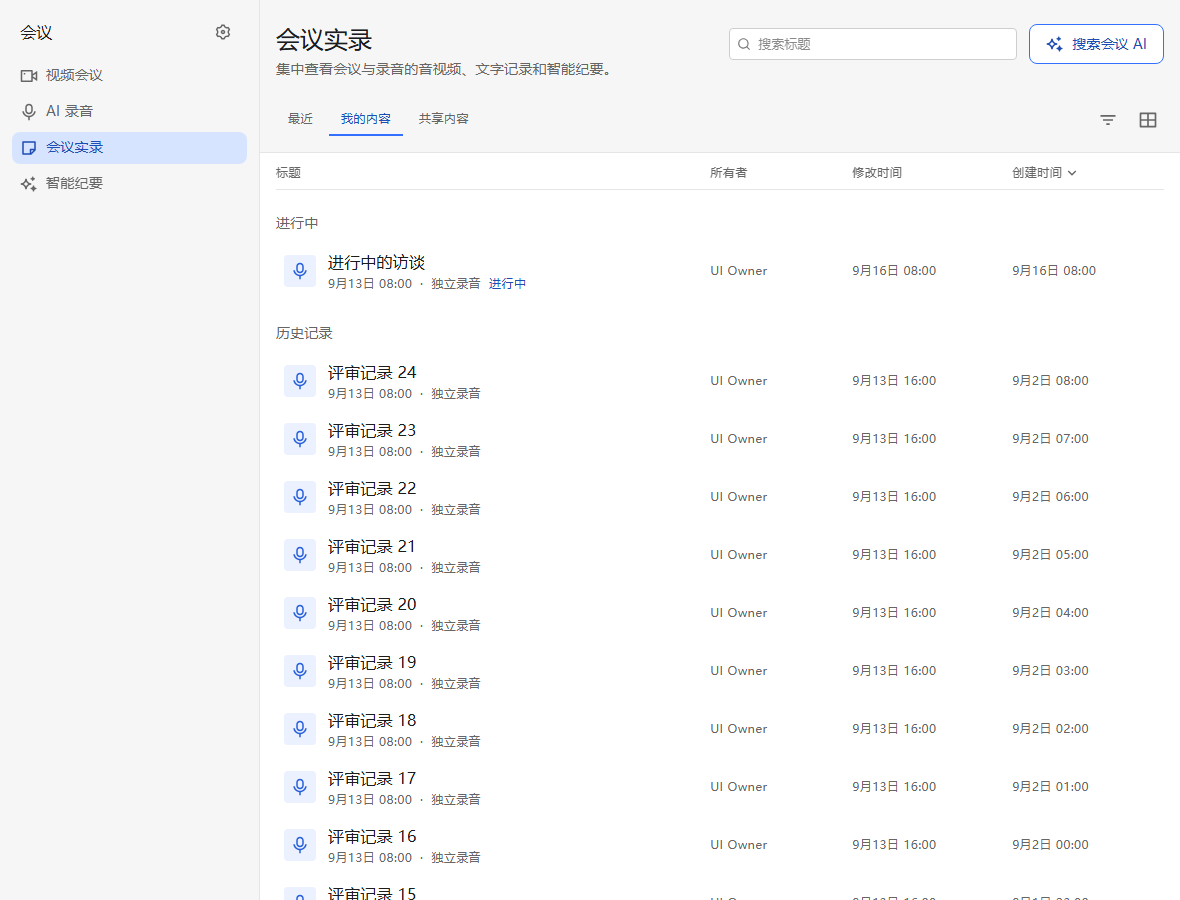
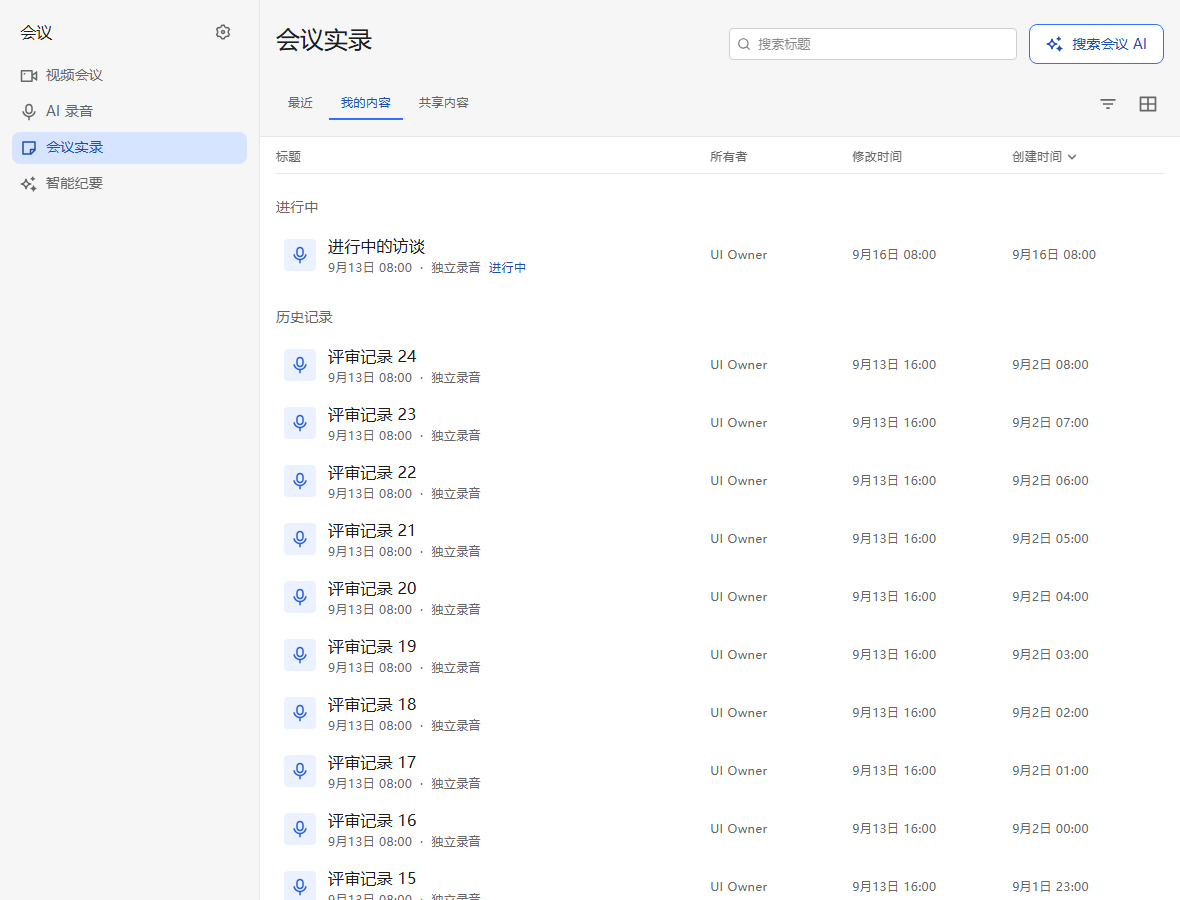
refactor(meetings): drop the subtitle from the four first-level pages
视频会议 / AI 录音 / 会议实录 / 智能纪要的页头原先都是「标题 + 一行说明」,
按要求删掉说明行,页头只留标题:

- 三个页面文件删掉 <p className={pageLead}> 与随之不再使用的 pageLead
  import(pageLead 本身保留:录音详情 / 录制页 / 记录工作区三个次级页还在用);
- 文案键 library.videoHint / recordHint / notesHint / minutesHint 只从 zh / en
  删除(de / fr / nl 本来就没有这几个键,走 en 兜底);
- 页头动作行的对齐不变:pageHeaderRow 是 align-items: flex-start,标题
  (24px,行高 32)与右侧 32px 的按钮、搜索框本来就顶对齐。

走查在 assertUnifiedPageChrome 里加了一条:页头 header p 数量必须是 0 —— 四个
页面一处定义、四页同时受检,以后谁再加回说明行会直接红。

验证:vitest 160 文件 1033 条、lint / prettier / check:json / color /
foundation / tsc / build 全绿;check-meeting-pages-ui.mjs 通过;四页桌面 +
390px + 深色截图已更新。

diff --git a/src/frontend/src/features/home/routes/Home.tsx b/src/frontend/src/features/home/routes/Home.tsx
@@ -36,7 +36,6 @@ import {
   pageFixedTop,
   pageHeaderRow,
   pageHeaderText,
-  pageLead,
   pageShell,
   pageTitle,
   scrollRegion,
@@ -267,13 +266,11 @@ export const Home = () => {
                     <MeetingModuleNav current="/meeting" />
                   </div>
                   <header className={pageHeaderRow}>
+                    {/* 页头只有标题:四个一级页都不再带副标题(2026-09-17)。 */}
                     <div className={pageHeaderText}>
                       <h1 className={pageTitle}>
                         {t('library.video', { ns: 'meetings' })}
                       </h1>
-                      <p className={pageLead}>
-                        {t('library.videoHint', { ns: 'meetings' })}
-                      </p>
                     </div>
                     {/* 快速会议(实心主操作)+ 加入 / 预约(线框次操作),
                         三档都是 action 尺寸,和模块里其它页头动作同高同字号。

diff --git a/src/frontend/src/features/meetings/routes/RecordingOverview.tsx b/src/frontend/src/features/meetings/routes/RecordingOverview.tsx
@@ -18,7 +18,6 @@ import {
   pageFixedTop,
   pageHeaderRow,
   pageHeaderText,
-  pageLead,
   pageShell,
   pageTitle,
   rowBody,
@@ -169,9 +168,9 @@ export function RecordingOverview() {
             <MeetingModuleNav current="/meeting/recording" />
           </div>
           <header className={pageHeaderRow}>
+            {/* 页头只有标题:四个一级页都不再带副标题(2026-09-17)。 */}
             <div className={pageHeaderText}>
               <h1 className={pageTitle}>{t('library.record')}</h1>
-              <p className={pageLead}>{t('library.recordHint')}</p>
             </div>
             {/* 页头动作与其它栏目页同一档:headerActions 里放 action 尺寸 + 18px 图标的
                 按钮,右对齐。这一页是「录制/导入」两个动作的归属页,会议实录页只查/看。

diff --git a/src/frontend/src/features/meetings/routes/MeetingLibrary.tsx b/src/frontend/src/features/meetings/routes/MeetingLibrary.tsx
@@ -35,7 +35,6 @@ import {
   pageFixedTop,
   pageHeaderRow,
   pageHeaderText,
-  pageLead,
   pageShell,
   pageTitle,
   rowBody,
@@ -763,13 +762,11 @@ export function Library({
             />
           </div>
           <header className={pageHeaderRow}>
+            {/* 页头只有标题:四个一级页都不再带副标题(2026-09-17)。 */}
             <div className={pageHeaderText}>
               <h1 className={pageTitle}>
                 {t(minutes ? 'library.minutes' : 'library.notes')}
               </h1>
-              <p className={pageLead}>
-                {t(minutes ? 'library.minutesHint' : 'library.notesHint')}
-              </p>
             </div>
             <div className={headerActions}>
               {/* 搜索框在动作行里、紧挨「搜索会议 AI」的左侧,**没有提交按钮**:

diff --git a/CHANGELOG.md b/CHANGELOG.md
@@ -121,6 +121,8 @@ and this project adheres to
   twice, which left a blank band above the lists
 - ♻(frontend) drop the signed-in meeting list and calls to action that the
   anonymous landing page could never render
+- ♻(frontend) remove the subtitle line from the four meeting module pages so
+  their headers carry the title alone
 
 ## [1.16.0] - 2026-05-13
 
